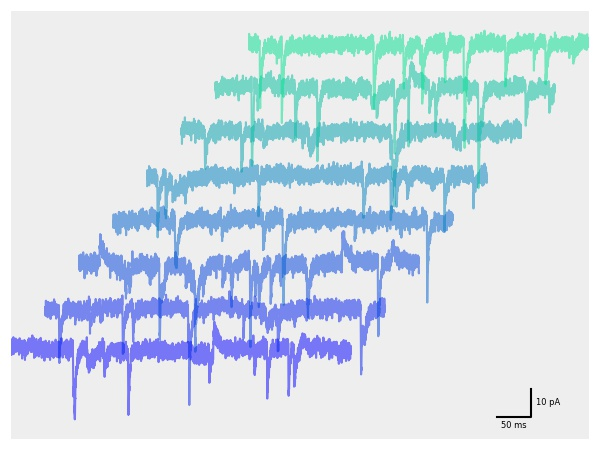
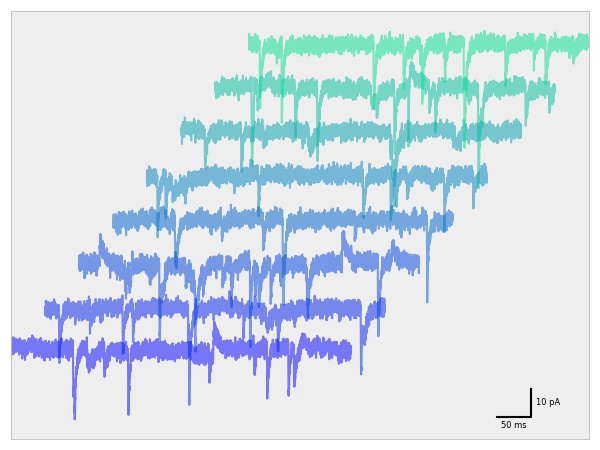
added frame to scalebar() example

diff --git a/docs/getting-started/generate-docs.py b/docs/getting-started/generate-docs.py
@@ -260,7 +260,7 @@ class Uses:
         abf = pyabf.ABF("data/abfs/17o05026_vc_stim.abf")
         pyabf.plot.sweeps(abf, title=False, offsetXsec=.05,
                           offsetYunits=15, startAtSec=3, endAtSec=3.5)
-        pyabf.plot.scalebar(abf)
+        pyabf.plot.scalebar(abf, hideFrame=False)
         plt.tight_layout()
         self.saveAndClose()
 

diff --git a/docs/getting-started/readme.md b/docs/getting-started/readme.md
@@ -283,7 +283,7 @@ import pyabf
 abf = pyabf.ABF("17o05026_vc_stim.abf")
 pyabf.plot.sweeps(abf, title=False, offsetXsec=.05,
                   offsetYunits=15, startAtSec=3, endAtSec=3.5)
-pyabf.plot.scalebar(abf)
+pyabf.plot.scalebar(abf, hideFrame=False)
 plt.tight_layout()
 plt.show()
 ```
